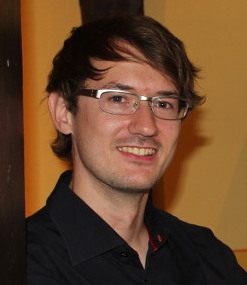
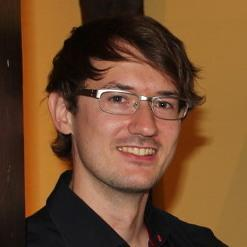
fixing my own awful layout

diff --git a/_posts/2016-01-28-summit_programme.md b/_posts/2016-01-28-summit_programme.md
@@ -17,7 +17,7 @@ Want to contribute to Cats?
 Let's head over to the Cats Issues list and do some live coding!
 Along the way we will see how the codebase is organized, the various bits of automation provided, and how you can use our various channels to get feedback on your work.
 
-<img src="/img/media/speakers/adelbertchang.jpeg" style="float: right; width: 15%; margin-left: 1em;">
+<img src="/img/media/speakers/adelbertchang.jpeg" class="portrait">
 _Adelbert Chang is a Software Engineer at Box and a recent graduate from UC Santa Barbara where he studied Computer Science and researched graph querying and modeling. He enjoys helping with functional programming education and learning more about programming._
 <br style="clear: both;">
 
@@ -28,11 +28,11 @@ Like Scala `async` or SBT `.value`, but generalized to any monad.
 Implemented, ready to be used and requiring only vanilla Scala 2.10/2.11 and blackbox macros.
 Future extensions could include automatic use of Applicative where possible, support for more embedded control-flow operations, comprehensions over multiple compatible monads at once for user-defined notions of compatible and compiler tweaks for syntactic improvements.
 
-<img src="/img/media/speakers/chrisvogt.jpg" style="float: right; width: 15%; margin-left: 1em;">
+<img src="/img/media/speakers/chrisvogt.jpg" class="portrait">
 _Chris Vogt. Slick co-author, Compossible records author, frequent Scala conference/user group speaker, former member of Martin's team at LAMP/EPFL, based in NYC, Senior Software Engineer at x.ai_
 <br style="clear: both;">
 
-<img src="/img/media/speakers/chrishodapp.jpg" style="float: right; width: 15%; margin-left: 1em;">
+<img src="/img/media/speakers/chrishodapp.jpg" class="portrait">
 _Chris Hodapp. Several-time Scala GSOC student and eventually mentor, author of the ill-fated Comprehensive Comprehensions project. He's hoping to see tooling and techniques from the FP/Typelevel community improve the leverage of the average developer. Based in the SF Bay Area._
 <br style="clear: both;">
 
@@ -43,7 +43,7 @@ It contains multiple koan and free form style exercises maintained by library au
 Version 2 comes with a brand new backend and exercise tracking where you can login simply using your Github account and track your progress throughout exercises and libraries.
 Version 2 will launch with exercises for the stdlib, Cats, Shapeless and other well known libraries and frameworks part of the Scala ecosystem.
 
-<img src="/img/media/speakers/raulraja.jpg" style="float: right; width: 15%; margin-left: 1em;">
+<img src="/img/media/speakers/raulraja.jpg" class="portrait">
 _Raul Raja. Functional programming enthusiast, CTO and Co-founder at 47 Degrees, a functional programming consultancy specialized in Scala._
 <br style="clear: both;">
 
@@ -57,7 +57,7 @@ This is achieved by expressing the model within an embedded DSL, and then compil
 This automates one of the main tasks in building a probabilistic model, and provides the same benefits as a compiler for a traditional high-level language.
 With the close tie of functional programming to mathematics, and the use of techniques like the free monad, functional programming languages are an ideal platform for embedding probabilistic programming.
 
-<img src="/img/media/speakers/noelwelsh.png" style="float: right; width: 15%; margin-left: 1em;">
+<img src="/img/media/speakers/noelwelsh.png" class="portrait">
 _Noel Welsh is a partner at Underscore, a consultancy that specializes in Scala. He's been using Scala for 6 years in all sorts of applications. He's the author of Advanced Scala, which is in the process of being rewritten to use Cats._
 <br style="clear: both;">
 
